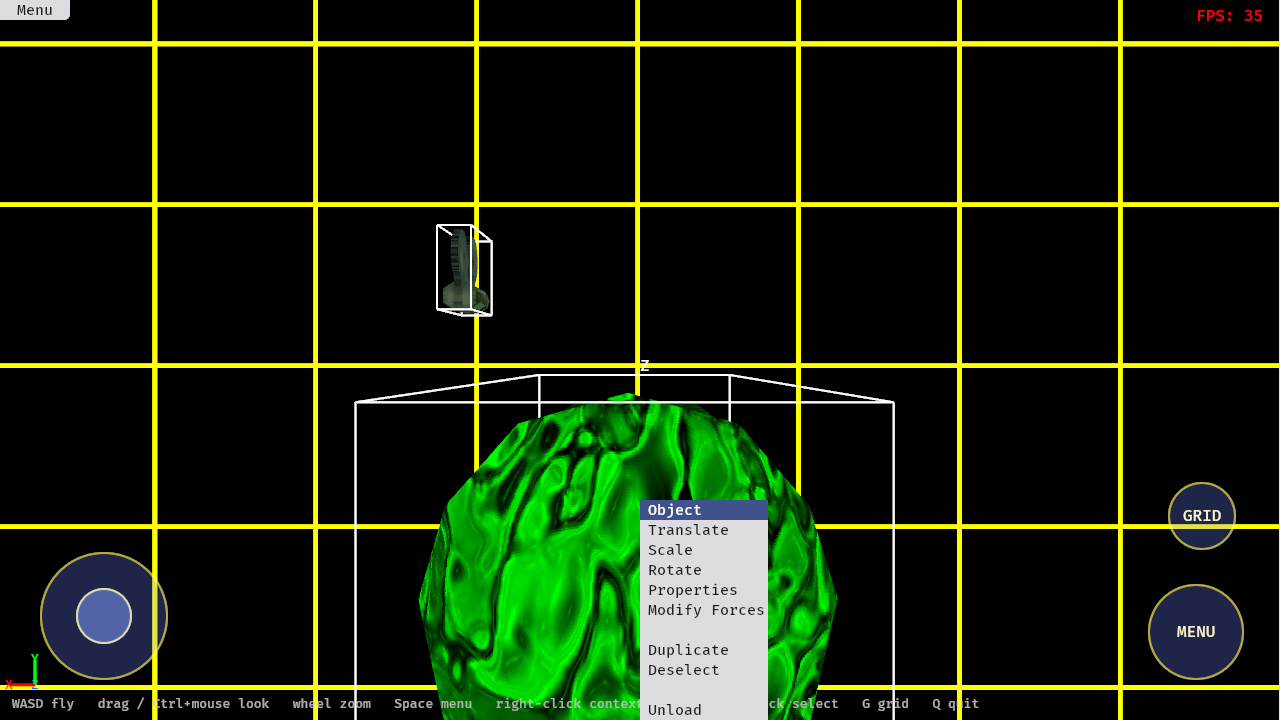
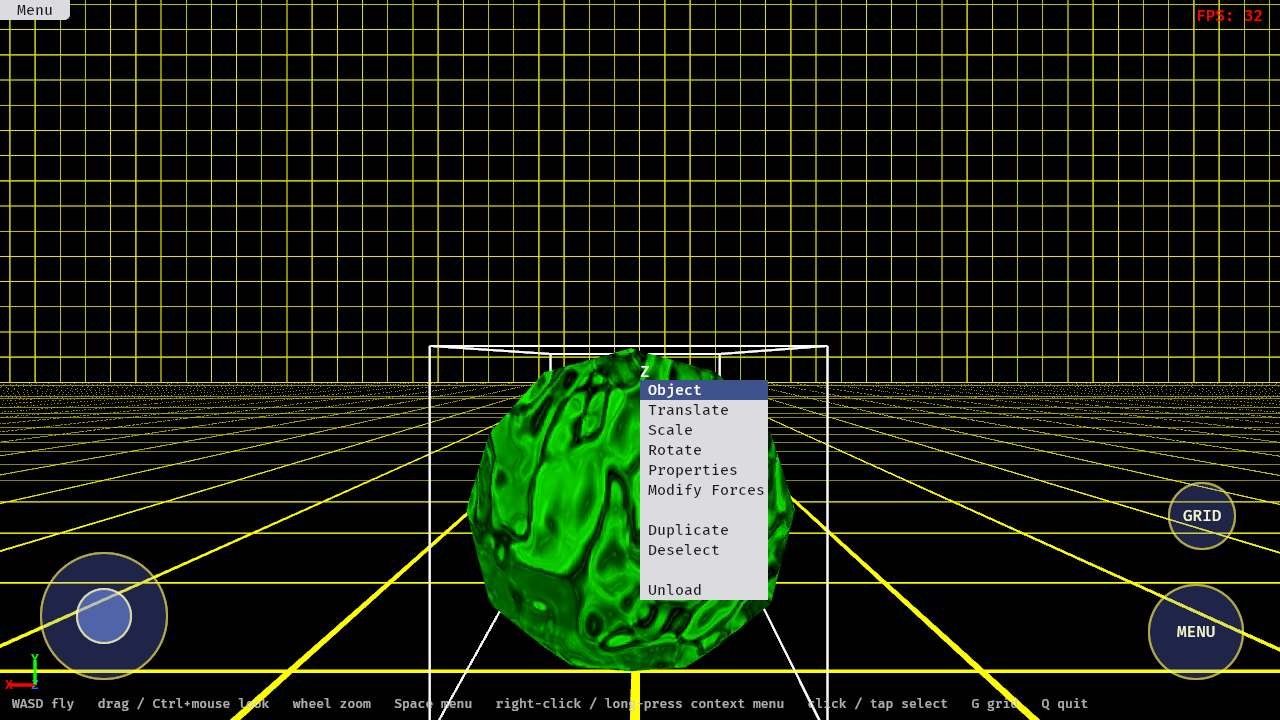
Aim the placed camera at the scene, fix a wireframe crash, README gallery
- the starting camera object sits at the side of the room looking at the middle,
  so its picture-in-picture view shows the scene instead of a blank wall
- wireframe no longer panics when a scene is loaded in the same frame
- devtools: selectcam and ui:<action> steps for scripted screenshots
- README: screenshot gallery at the new scale, including touch

Claude-Session: https://claude.ai/code/session_015tLzVZdWnsYT3z3WwnAvPW

diff --git a/src/devtools.rs b/src/devtools.rs
@@ -6,6 +6,9 @@
 //! ```text
 //! scene:demo        load a bundled scene
 //! select:3          select scene object 3
+//! selectcam:1       select placed camera 1
+//! ui:view           run a menu action: view, control, translate, deselect,
+//!                   loadscene, loadmodel, properties, wireframe
 //! manip:translate   show translate|scale|rotate handles
 //! view:Top          switch view (3d, Front, Back, Left, Right, Top, Bottom)
 //! cam:x,y,z,theta,phi   place the world camera (angles in degrees)
@@ -35,6 +38,7 @@ use crate::objects::manip::{ManipKind, Manipulator};
 use crate::objects::model::{self, Model};
 use crate::objects::pick::Selection;
 use crate::settings::Settings;
+use crate::ui3d::actions::{Action, UiAction};
 use crate::ui3d::menu::{self, MenuBar};
 use crate::view::{ViewPort, ViewType};
 
@@ -42,6 +46,8 @@ use crate::view::{ViewPort, ViewType};
 pub enum Step {
     Scene(String),
     Select(usize),
+    SelectCamera(usize),
+    Ui(Action),
     Manip(ManipKind),
     View(ViewType),
     Cam { pos: Vec3, theta: f64, phi: f64 },
@@ -64,6 +70,18 @@ pub fn parse_script(text: &str) -> Result<Vec<Step>, String> {
             Ok(vec![match name {
                 "scene" => Step::Scene(arg.to_owned()),
                 "select" => Step::Select(arg.trim().parse().map_err(|_| format!("bad id in '{step}'"))?),
+                "selectcam" => Step::SelectCamera(arg.trim().parse().map_err(|_| format!("bad camera in '{step}'"))?),
+                "ui" => Step::Ui(match arg {
+                    "view" => Action::LookFromCamera,
+                    "control" => Action::ControlCamera,
+                    "translate" => Action::SetManip(ManipKind::Translate),
+                    "deselect" => Action::Deselect,
+                    "loadscene" => Action::LoadScene,
+                    "loadmodel" => Action::LoadModel,
+                    "properties" => Action::ObjectProperties,
+                    "wireframe" => Action::ToggleWireframe,
+                    _ => return Err(format!("unknown ui action '{arg}'")),
+                }),
                 "manip" => Step::Manip(match arg {
                     "translate" => ManipKind::Translate,
                     "scale" => ManipKind::Scale,
@@ -154,6 +172,13 @@ fn run_script(world: &mut World) {
         Step::Select(id) => {
             let entity = world.resource::<Model>().entity(id);
             world.resource_mut::<Selection>().entity = entity;
+        }
+        Step::SelectCamera(index) => {
+            let entity = world.resource::<CameraManager>().cameras.get(index).and_then(|c| c.model);
+            world.resource_mut::<Selection>().entity = entity;
+        }
+        Step::Ui(action) => {
+            world.send_event(UiAction { action, window: None });
         }
         Step::Manip(kind) => world.resource_mut::<Manipulator>().kind = Some(kind),
         Step::View(view_type) => {

diff --git a/src/camera.rs b/src/camera.rs
@@ -55,6 +55,18 @@ impl CameraRig {
         self.phi = self.phi.clamp(-HALF_PI + 0.08, HALF_PI - 0.08);
     }
 
+    /// Turns the camera to face `target`.
+    pub fn look_at(&mut self, target: Vec3) {
+        let dir = (target - self.pos).normalize_or_zero();
+        if dir == Vec3::ZERO {
+            return;
+        }
+        // Inverse of `direction()`: theta is the yaw from +Z, and positive phi
+        // looks down.
+        self.theta = f64::from(dir.x).atan2(f64::from(dir.z));
+        self.phi = f64::from(-dir.y).asin().clamp(-HALF_PI + 0.08, HALF_PI - 0.08);
+    }
+
     /// Orients a camera model to match this camera and moves it to its position.
     pub fn model_transform(&self) -> Transform {
         Transform {
@@ -153,6 +165,14 @@ mod tests {
     }
 
     #[test]
+    fn look_at_points_the_camera_at_the_target() {
+        let mut rig = CameraRig::new("t", Vec3::new(35.0, 12.0, -5.0));
+        rig.look_at(Vec3::ZERO);
+        let expected = (Vec3::ZERO - rig.pos).normalize();
+        assert!((rig.direction() - expected).length() < 1e-4, "{:?}", rig.direction());
+    }
+
+    #[test]
     fn camera_model_faces_the_viewing_direction() {
         let mut rig = CameraRig::new("t", Vec3::new(1.0, 2.0, 3.0));
         rig.theta = 0.7;
@@ -228,6 +248,8 @@ pub fn spawn_placed_camera(world: &mut World, name: &str, pos: Vec3) -> Result<u
     let bytes = crate::data::model("camera").ok_or_else(|| model::ModelError::NotFound("camera".into()))?;
     let index = world.resource::<CameraManager>().cameras.len();
     let mut rig = CameraRig::new(name, pos);
+    // Placed cameras watch the middle of the room, where scenes are built.
+    rig.look_at(Vec3::new(0.0, 5.0, -10.0));
     let layers = model::hidden_from_quick_camera(index.saturating_sub(1));
     let entity = model::spawn_from_bytes(world, "camera", bytes, rig.model_transform(), layers)?;
     world.entity_mut(entity).insert(CameraObject { index });

diff --git a/src/wireframe.rs b/src/wireframe.rs
@@ -53,16 +53,21 @@ fn apply(
             let key = Arc::as_ptr(&geometry.data) as usize;
             let mesh = cache.0.entry(key).or_insert_with(|| meshes.add(visuals::build_wireframe(&geometry.data))).clone();
             let bounds = geometry.data.bounding_box;
-            let edges = commands
-                .spawn((
-                    EdgeLines,
-                    Mesh3d(mesh),
-                    MeshMaterial3d(edge_material.clone()),
-                    bevy::render::primitives::Aabb::from_min_max(bounds.min, bounds.max),
-                    visible_to_all(),
-                ))
-                .id();
-            commands.entity(entity).add_child(edges);
+            let bundle = (
+                EdgeLines,
+                Mesh3d(mesh),
+                MeshMaterial3d(edge_material.clone()),
+                bevy::render::primitives::Aabb::from_min_max(bounds.min, bounds.max),
+                visible_to_all(),
+            );
+            // The object may be despawned before this runs (e.g. a scene is
+            // loaded in the same frame), so only attach if it still exists.
+            commands.queue(move |world: &mut World| {
+                if world.get_entity(entity).is_ok() {
+                    let edges = world.spawn(bundle).id();
+                    world.entity_mut(entity).add_child(edges);
+                }
+            });
         }
 
         for &child in children {

diff --git a/src/lib.rs b/src/lib.rs
@@ -123,7 +123,7 @@ pub fn spawn_main_camera(mut commands: Commands) {
 
 /// Places the camera object the simulator starts with.
 fn setup_world(world: &mut World) {
-    if let Err(e) = camera::spawn_placed_camera(world, "Camera 1", Vec3::new(10.0, 10.0, 10.0)) {
+    if let Err(e) = camera::spawn_placed_camera(world, "Camera 1", Vec3::new(40.0, 14.0, -30.0)) {
         error!("{e}");
     }
 }

diff --git a/README.md b/README.md
@@ -6,12 +6,17 @@
 
 Holodeck is a 3D scene editor / simulator: you float inside a holographic grid, load models and scenes, select objects, and move, scale and rotate them with on-screen handles. It is a Rust/[Bevy](https://bevyengine.org) port of the original C++/OpenGL project (VRUPL, 2004–05); the original sources are kept in [`cpp/`](cpp/) for reference. The build system, packaging and CI come from [GameBase](https://github.com/maxfridbe/GameBase), so Holodeck ships to **Linux, Windows, macOS (Apple Silicon), Android and the browser** from one crate.
 
-![A loaded blueEye.3dbin model](docs/screenshots/blueeye-loaded.png)
+![fixed.world with the placed camera's live picture-in-picture view](docs/screenshots/camera-viewport.png)
+
+## Screenshots
 
 | | |
 |---|---|
-| ![fixed.world with translate handles](docs/screenshots/fixed-scene.png) | ![vrupl.3dbin selected with rotate rings](docs/screenshots/vrupl-rotate.png) |
-| ![Long-press context menu on a touch screen](docs/screenshots/touch-context-menu.png) | ![Dragging a handle with a finger](docs/screenshots/touch-translate.png) |
+| ![demo.world seen from across the holodeck: the starfield sky dome with the VRUPL logo above it](docs/screenshots/demo-scene.png) **demo.world** from across the holodeck | ![A blueEye.3dbin model loaded into the room](docs/screenshots/blueeye-loaded.png) **A loaded `.3dbin`** (blueEye) on the holodeck floor |
+| ![Translate handles on a selected object](docs/screenshots/fixed-scene.png) **Translate handles** on a selected object (values show its position) | ![Camera control mode](docs/screenshots/camera-control.png) **Camera control**: flying the placed camera (Esc to return) |
+| ![The Transformations dialog](docs/screenshots/properties.png) **Properties**: typed-in translate / scale / rotate | ![The Load Model file dialog](docs/screenshots/load-dialog.png) **Load Model** dialog with the bundled models |
+| ![Wireframe mode](docs/screenshots/wireframe.png) **Wireframe** mode | ![Orthographic top view](docs/screenshots/top-view.png) **Top view** (orthographic, with the inner grid) |
+| ![Long-press context menu on a touch screen](docs/screenshots/touch-context-menu.png) **Touch**: long-press for the context menu (stick and buttons on screen) | ![Dragging a handle with a finger](docs/screenshots/touch-translate.png) **Touch**: dragging the X handle moved the object 6.09 units |
 
 ## Playing
 
@@ -50,7 +55,7 @@ The controls hide again when a key is pressed. The whole UI scales with the wind
 
 **Menus** — *File* (Connect, Exit) · *Edit* (Duplicate) · *Settings* (Grid colours) · *View* (3d, Front, Back, Left, Right, Top, Bottom, HoloGrid, Wireframe, Inner Grid) · *Scene* (New, Save, Open, Add World Force) · *Model* (Load, Unload).
 
-**Cameras** — the small camera object in the world can be selected: **View** opens a picture-in-picture window showing what it sees, **Control** flies it (Esc to finish), **Translate** moves it.
+**Cameras** — the camera object at the side of the room (it starts aimed at the middle) can be selected: **View** opens a live picture-in-picture window showing what it sees (top screenshot), **Control** flies it (Esc to finish), **Translate** moves it.
 
 **Handles** — after choosing Translate/Scale/Rotate from the context menu, arrows (translate, world axes), cubes (scale, the object's own axes) or rings (rotate, world axes) appear around the object. Drag one and the object follows the pointer. Handles keep a constant size on screen. Faint boxes around every object show its world-space bounding box; a box turns red while it overlaps another.
 
